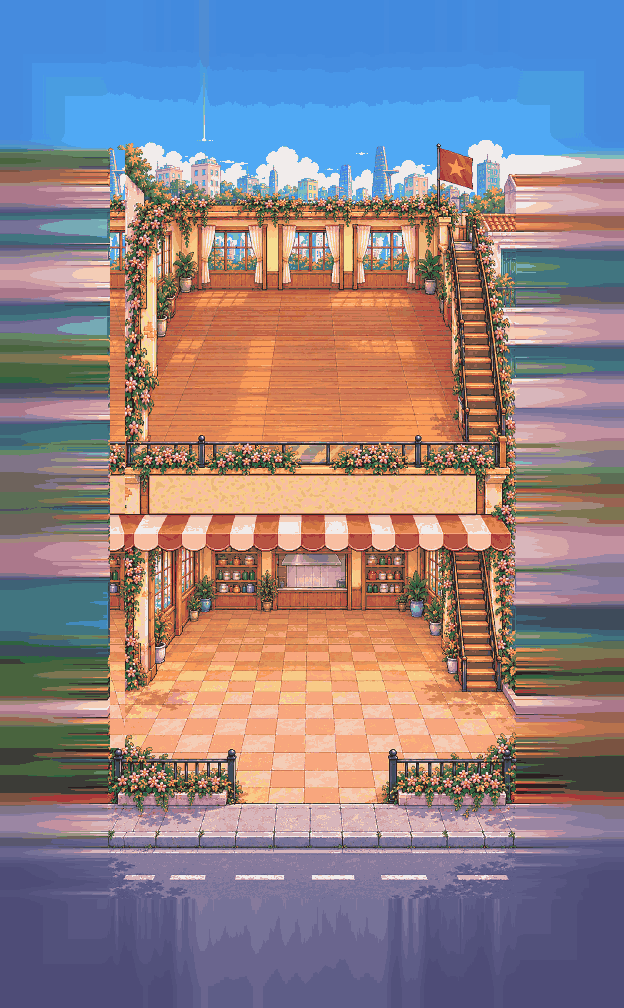
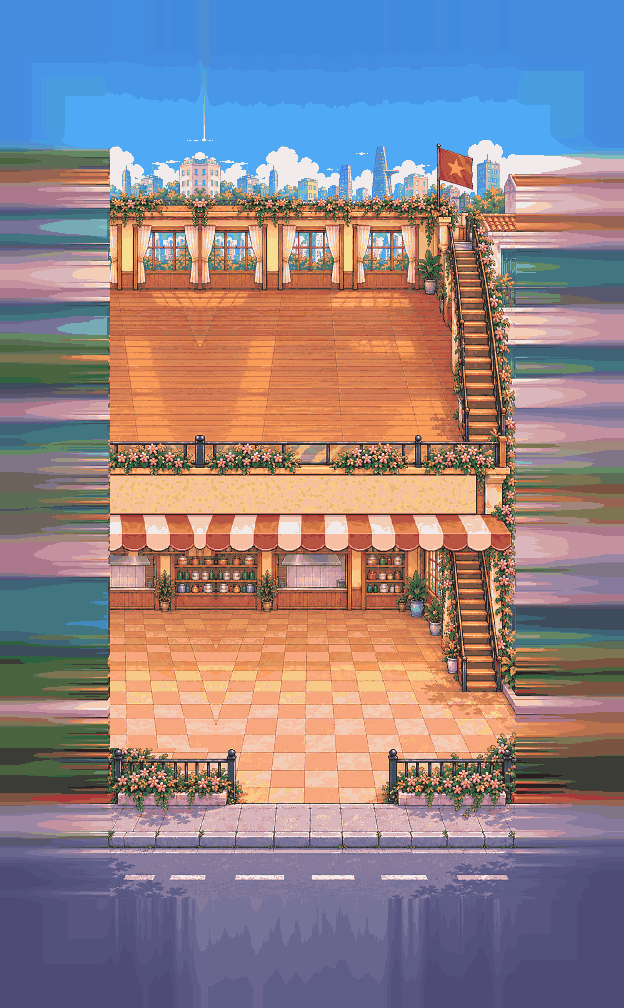
Lẩu Ơi v1.20c: bỏ tường cột giữa dãy bên trái và quán, nối thành một gian dài
Nhà hàng 2 lầu: xóa cột hoa leo + vách nghiêng bên trái quán; cửa sổ, sàn gỗ, lan can, biển, mái che,
kệ và nền gạch chạy liền từ dãy bên trái sang quán chính.

Claude-Session: https://claude.ai/code/session_01BD8ysNy2UsXiFAiTavnXvs

Changed region(s): [[0.1522, 0.123, 0.3654, 0.7688]]

diff --git a/web/quanlau/src/art/assets.js b/web/quanlau/src/art/assets.js
@@ -8,7 +8,7 @@
 // drawn with blit() at a world position lands 1:1 on buffer pixels (crisp, no resampling).
 // Keep DETAIL in sync with `DETAIL` in src/render/renderer.js.
 export const DETAIL = 2;
-export const ASSET_VER = 'l20b';   // v1.18n: icons.png + props.png có thêm khung mới (Hộp mù) — PHẢI tăng khi đổi PNG
+export const ASSET_VER = 'l20c';   // v1.18n: icons.png + props.png có thêm khung mới (Hộp mù) — PHẢI tăng khi đổi PNG
 /** khung có nằm trong ảnh đã tải không (ảnh cũ trong bộ nhớ đệm + dữ liệu khung mới → Safari báo lỗi drawImage) */
 export const frameOk = (rec, f) => !!(rec && rec.img && f) && f[0] + f[2] <= (rec.img.naturalWidth || rec.img.width) && f[1] + f[3] <= (rec.img.naturalHeight || rec.img.height);
 

diff --git a/web/quanlau/sw.js b/web/quanlau/sw.js
@@ -1,7 +1,7 @@
 // Lẩu Ơi! service worker (v1.2): makes the game installable as an app (Android "Cài đặt ứng dụng", desktop Chrome/Edge)
 // and lets it open without a connection. Network first: an online player always gets the newest files; the cached
 // copy is only used when the network fails. Saves live in localStorage and are never touched here.
-const CACHE = 'lauoi-v52';
+const CACHE = 'lauoi-v53';
 // Trang thật là /quanlau (vercel.json: trailingSlash:false) nên scope là "/quanlau", không phải "/quanlau/".
 const HOME = '/quanlau';
 const CORE = [HOME, 'index.html', 'style.css', 'manifest.json', 'src/main.js', 'assets/app/icon-192.png'];
